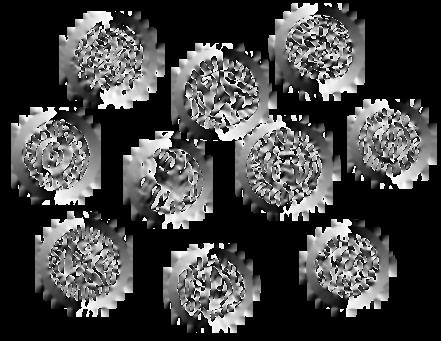
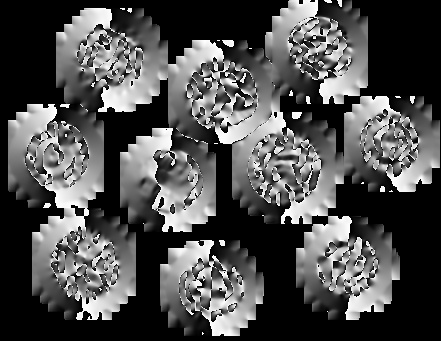
Thats all for today folks

Changed region(s): [[0.0, 0.0, 1.0, 0.9971]]

diff --git a/hough.cpp b/hough.cpp
@@ -112,8 +112,8 @@ void imageToDouble(Mat &input, Mat &out)  {
 
 void sobel(Mat &image, Mat &gradient_mag, Mat &gradient_dir) {
     // // create the Gaussian kernel in 1D
-    cv::Mat kX = cv::getGaussianKernel(10, -1);
-    cv::Mat kY = cv::getGaussianKernel(10, -1);
+    cv::Mat kX = cv::getGaussianKernel(15, -1);
+    cv::Mat kY = cv::getGaussianKernel(15, -1);
 
     // // make it 2D multiply one by the transpose of the other
     cv::Mat kernelG = kX * kY.t();
@@ -142,7 +142,14 @@ void sobel(Mat &image, Mat &gradient_mag, Mat &gradient_dir) {
     imwrite("outputDir.jpg", gradient_dir);
 }
 
-void houghTransform(Mat &image, Mat &gradient_mag, Mat &gradient_dir)  {
+void houghTransform(Mat &image, Mat &gradient_mag, Mat &gradient_dir, double thresh_val)  {
+		Mat thresh_mag, thresh_dir;
+		threshold(gradient_mag, thresh_mag, thresh_val, 255, THRESH_BINARY);
+		threshold(gradient_dir, thresh_dir, thresh_val, 255, THRESH_BINARY);
+    imwrite("threshMag.jpg", thresh_mag);
+    imwrite("threshDir.jpg", thresh_dir);
+
+
 
 }
 
@@ -158,7 +165,7 @@ int main(int argc, char** argv) {
     }
 		Mat grad_mag, grad_dir;
     sobel(image, grad_mag, grad_dir);
-		houghTransform(image, grad_mag, grad_dir);
+		houghTransform(image, grad_mag, grad_dir, 60);
 
     return 0;
 }
